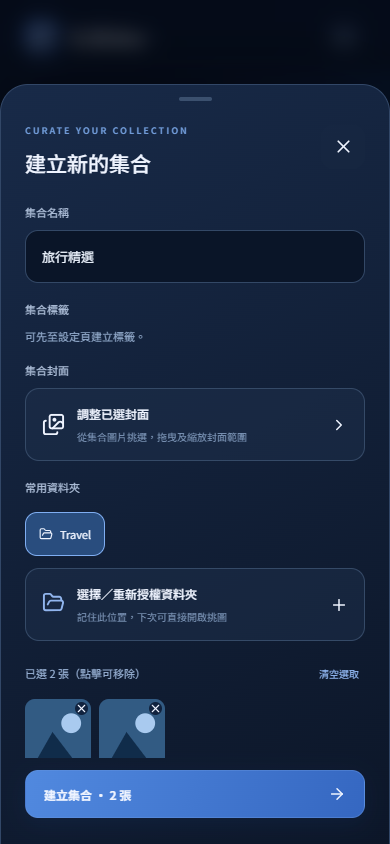
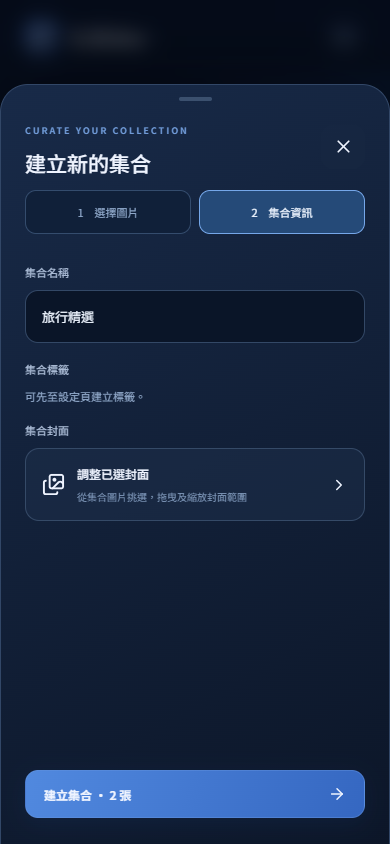
Release v1.0.14 with two-page collection editor

diff --git a/src/App.vue b/src/App.vue
@@ -85,9 +85,43 @@ const busy = ref(false)
 const error = ref('')
 const modal = ref(false)
 const editorScroll = ref<HTMLElement>()
+const detailsScroll = ref<HTMLElement>()
+const editorStep = ref<0|1>(0)
 const editorScrolled = ref(false)
-function editorTop() { editorScroll.value?.scrollTo({top:0,behavior:'smooth'}) }
-function updateEditorScroll() { editorScrolled.value=(editorScroll.value?.scrollTop || 0)>1 }
+function currentEditorScroll() { return editorStep.value===0 ? editorScroll.value : detailsScroll.value }
+function editorTop() { currentEditorScroll()?.scrollTo({top:0,behavior:'smooth'}) }
+function updateEditorScroll() { editorScrolled.value=(currentEditorScroll()?.scrollTop || 0)>1 }
+function showEditorStep(step:0|1) {
+  if(editorStep.value===step) return
+  selectedStrip.value?.cancel()
+  editorStep.value=step
+  nextTick(updateEditorScroll)
+}
+let editorTouch:{id:number;x:number;y:number}|undefined
+function startEditorSwipe(e:TouchEvent) {
+  editorTouch=undefined
+  if(e.touches.length!==1 || (e.target as Element).closest('input, textarea, select, button:not(.pick-photo), .selected-strip, .folder-chips')) return
+  const touch=e.touches[0]!
+  editorTouch={id:touch.identifier,x:touch.clientX,y:touch.clientY}
+}
+function moveEditorSwipe(e:TouchEvent) {
+  if(!editorTouch) return
+  if(e.touches.length!==1) { editorTouch=undefined; return }
+  const touch=[...e.touches].find(t=>t.identifier===editorTouch?.id)
+  if(touch) {
+    const dx=touch.clientX-editorTouch.x,dy=touch.clientY-editorTouch.y
+    if(Math.abs(dx)>10 && Math.abs(dx)>Math.abs(dy)*1.4) e.preventDefault()
+  }
+}
+function endEditorSwipe(e:TouchEvent) {
+  if(!editorTouch) return
+  const touch=[...e.changedTouches].find(t=>t.identifier===editorTouch?.id)
+  if(touch) {
+    const dx=touch.clientX-editorTouch.x,dy=touch.clientY-editorTouch.y
+    if(Math.abs(dx)>65 && Math.abs(dx)>Math.abs(dy)*1.4) showEditorStep(dx<0 ? 1 : 0)
+  }
+  editorTouch=undefined
+}
 const editId = ref<string | null>(null)
 const name = ref('')
 const selectedFolder = ref<SourceFolder | null>(null)
@@ -162,7 +196,7 @@ function edit(c?:Collection, folder?:SourceFolder) {
   menuCollectionId.value=null
   editId.value=c?.id || null; name.value=c?.name || ''; draftPhotos.value=c ? [...c.photos] : []
   draftTags.value=(c?.tagIds || []).filter(id=>tags.value.some(t=>t.id===id))
-  draftCover.value=c?.cover ? {...c.cover} : undefined; coverEditor.value=false; editorScrolled.value=false
+  draftCover.value=c?.cover ? {...c.cover} : undefined; coverEditor.value=false; editorScrolled.value=false; editorStep.value=0; editorTouch=undefined
   selectedFolder.value=null; folderPhotos.value=[];folderQuery.value='';photoSortOpen.value=false; modal.value=true; error.value=''
   const initial=folder || folders.value[0]
   if(initial) void browseFolder(initial)
@@ -260,13 +294,9 @@ onUnmounted(() => { window.removeEventListener('keydown',keyboard); window.remov
   <div v-if="modal" class="modal-backdrop" @click.self="modal=false">
     <section class="sheet collection-sheet" :inert="photoSortOpen" role="dialog" aria-modal="true" aria-labelledby="sheet-title">
       <div class="sheet-handle"></div><div class="sheet-heading"><div><span class="eyebrow">CURATE YOUR COLLECTION</span><h2 id="sheet-title">{{ editId ? '編輯集合' : '建立新的集合' }}</h2></div><button class="icon-button" @click="modal=false" aria-label="關閉"><X :size="21" /></button></div>
-      <div class="editor-scroll-wrap"><div ref="editorScroll" class="editor-scroll" @scroll.passive="updateEditorScroll">
-        <label class="field-label" for="collection-name">集合名稱</label><input id="collection-name" v-model="name" maxlength="60" placeholder="例如：旅行片刻、日常光影" />
-        <p v-if="!editId && !name.trim() && draftPhotos.length" class="auto-name-hint">{{ suggestedName ? '將自動命名為：' + suggestedName : preferences.autoName ? '檔名無法套用規則，請輸入集合名稱。' : '自動命名已停用，請輸入集合名稱。' }}</p>
-        <label class="field-label">集合標籤</label>
-        <div v-if="tags.length" class="tag-picker"><button v-for="tag in tags" :key="tag.id" class="tag-pill" :class="{chosen:draftTags.includes(tag.id)}" :style="tagStyle(tag)" :aria-label="'套用標籤 '+tag.name" :aria-pressed="draftTags.includes(tag.id)" @click="toggleTag(tag.id)"><span><Check v-if="draftTags.includes(tag.id)" :size="13" />{{ tag.name }}</span></button></div>
-        <p v-else class="tag-hint">可先至設定頁建立標籤。</p>
-        <label class="field-label">集合封面</label><button class="folder-select" :disabled="!draftPhotos.length" @click="coverEditor=true"><Images :size="23" /><span><strong>{{ draftCover && selected(draftCover.uri) ? '調整已選封面' : '選擇封面與調整視窗' }}</strong><small>從集合圖片挑選，拖曳及縮放封面範圍</small></span><ChevronRight :size="18" /></button>
+      <div class="editor-steps" aria-label="集合編輯步驟"><button :class="{current:editorStep===0}" :aria-current="editorStep===0 ? 'step' : undefined" aria-label="選擇圖片步驟" @click="showEditorStep(0)">1　選擇圖片</button><button :class="{current:editorStep===1}" :aria-current="editorStep===1 ? 'step' : undefined" aria-label="集合資訊步驟" @click="showEditorStep(1)">2　集合資訊</button></div>
+      <div class="editor-scroll-wrap"><div class="editor-pages" :class="{details:editorStep===1}" @touchstart.passive="startEditorSwipe" @touchmove="moveEditorSwipe" @touchend.passive="endEditorSwipe" @touchcancel="editorTouch=undefined">
+      <div ref="editorScroll" class="editor-scroll editor-page" :inert="editorStep!==0" @scroll.passive="updateEditorScroll">
         <label class="field-label">常用資料夾</label>
         <div class="folder-chips"><button v-for="f in folders" :key="f.uri" :class="{chosen:selectedFolder?.uri===f.uri}" @click="browseFolder(f)"><FolderOpen :size="14" />{{ f.name }}</button></div>
         <p v-if="!folders.length" class="tag-hint">尚未授權圖片資料夾，請先至設定頁新增。</p>
@@ -277,10 +307,17 @@ onUnmounted(() => { window.removeEventListener('keydown',keyboard); window.remov
         <p v-if="!folderBusy && folderPhotos.length && !visibleFolderPhotos.length" class="picker-empty">找不到符合「{{ folderQuery }}」的圖片。</p>
         <div class="photo-picker"><button v-for="p in visibleFolderPhotos" :key="p.uri" class="pick-photo" :class="{selected:selected(p.uri)}" @click="toggle(p)" :aria-label="matchesFolder(p,folderQuery) ? `選取 ${p.name}，目錄 ${p.folderPath}` : `選取 ${p.name}`" :aria-pressed="selected(p.uri)"><PhotoThumb :uri="p.uri" :name="p.name" /><span class="pick-check"><Check v-if="selected(p.uri)" :size="15" /></span><span v-if="matchesFolder(p,folderQuery)" class="pick-folder-name" :title="p.folderPath">{{ p.folderPath }}</span><span class="pick-name">{{ p.name }}</span></button></div>
         <p class="sheet-note">可切換資料夾繼續挑選；集合只保留你勾選的圖片。<br />資料夾新增圖片不會自動加入集合，原始檔案不會修改。</p>
-
       </div>
+      <div ref="detailsScroll" class="editor-scroll editor-page" :inert="editorStep!==1" @scroll.passive="updateEditorScroll">
+        <label class="field-label" for="collection-name">集合名稱</label><input id="collection-name" v-model="name" maxlength="60" placeholder="例如：旅行片刻、日常光影" />
+        <p v-if="!editId && !name.trim() && draftPhotos.length" class="auto-name-hint">{{ suggestedName ? '將自動命名為：' + suggestedName : preferences.autoName ? '檔名無法套用規則，請輸入集合名稱。' : '自動命名已停用，請輸入集合名稱。' }}</p>
+        <label class="field-label">集合標籤</label>
+        <div v-if="tags.length" class="tag-picker"><button v-for="tag in tags" :key="tag.id" class="tag-pill" :class="{chosen:draftTags.includes(tag.id)}" :style="tagStyle(tag)" :aria-label="'套用標籤 '+tag.name" :aria-pressed="draftTags.includes(tag.id)" @click="toggleTag(tag.id)"><span><Check v-if="draftTags.includes(tag.id)" :size="13" />{{ tag.name }}</span></button></div>
+        <p v-else class="tag-hint">可先至設定頁建立標籤。</p>
+        <label class="field-label">集合封面</label><button class="folder-select" :disabled="!draftPhotos.length" @click="coverEditor=true"><Images :size="23" /><span><strong>{{ draftCover && selected(draftCover.uri) ? '調整已選封面' : '選擇封面與調整視窗' }}</strong><small>從集合圖片挑選，拖曳及縮放封面範圍</small></span><ChevronRight :size="18" /></button>
+      </div></div>
       <button v-if="editorScrolled" class="editor-top-button" @click="editorTop" :aria-label="editId ? '回到編輯集合頂部' : '回到新增集合頂部'"><ArrowUp :size="22" /></button></div>
-      <button class="primary save-button" :disabled="!collectionName || !draftPhotos.length || busy" @click="save">{{ editId ? '儲存變更' : '建立集合' }} · {{ draftPhotos.length }} 張<ArrowRight :size="18" /></button>
+      <button class="primary save-button" :disabled="editorStep===1 && (!collectionName || !draftPhotos.length || busy)" @click="editorStep===0 ? showEditorStep(1) : save()">{{ editorStep===0 ? '下一步' : (editId ? '儲存變更' : '建立集合') + ' · ' + draftPhotos.length + ' 張' }}<ArrowRight :size="18" /></button>
     </section>
   </div>
   <CollectionFilter v-if="photoSortOpen" photos :tags="[]" :selected="[]" :sort-key="preferences.photoSortKey" :sort-direction="preferences.photoSortDirection" @close="photoSortOpen=false" @apply="applyPhotoSort" />

diff --git a/src/style.css b/src/style.css
@@ -7,6 +7,7 @@
 .library{padding-top:calc(94px + env(safe-area-inset-top))}.topbar{position:fixed;top:0;left:0;right:0;z-index:15;background:#0c172bec;backdrop-filter:blur(20px);border-bottom:1px solid #243852;padding:calc(14px + env(safe-area-inset-top)) max(24px,calc((100vw - 920px)/2)) 14px;height:calc(74px + env(safe-area-inset-top))}.settings-button{color:#aac8f2;background:#1b305050}.library>.stats{margin-top:10px}.bottom-bar{padding:8px max(20px,calc((100vw - 920px)/2)) calc(8px + env(safe-area-inset-bottom));z-index:15;gap:16px}.bottom-bar button{flex:1;display:flex;align-items:center;justify-content:center;gap:9px;min-height:48px;border-radius:14px;color:#7290b8;font-size:12px}.bottom-bar button.selected{color:#b0cfff;background:#203a5d85}.card-copy p+p{margin-top:6px}.settings-heading{display:flex;align-items:center;gap:12px;margin:12px 0 25px}.settings-heading h1{font-size:23px;margin:0}.setting-card{padding:24px;border:1px solid #2a405f;border-radius:20px;background:linear-gradient(145deg,#172b4a90,#101e32);margin-bottom:18px}.setting-title{display:flex;align-items:center;gap:10px;color:#a7c4f0}.setting-title h2{font-size:16px;font-weight:600;color:#e5efff;margin:0}.setting-card p{font-size:11px;color:#849fc3;line-height:1.9;margin:16px 0 25px}.duration-label,.duration-scale{display:flex;justify-content:space-between;align-items:center;font-size:12px;color:#93afd6}.duration-label output{background:#274971;padding:8px 12px;border-radius:10px;color:#d0e3ff;min-width:85px;text-align:center}.duration-scale{font-size:10px;color:#647f9f;margin:3px 0 20px}.reset-setting{padding:11px 14px;border:1px solid #355378;border-radius:11px;color:#a4c0e8;font-size:11px;min-height:44px}.setting-card .setting-note{font-size:10px;margin:20px 0 0}.version-card{display:flex;justify-content:space-between;align-items:center;font-size:12px;color:#8ca8cd}.version-card strong{color:#d0e1fb;font-size:14px;font-weight:500}.dissolve-enter-active,.dissolve-leave-active{transition-duration:var(--transition-time,360ms)}@media(min-width:650px){.library{padding-top:calc(94px + env(safe-area-inset-top))}}@media(prefers-reduced-motion:reduce){.dissolve-enter-active,.dissolve-leave-active{transition:none!important}}
 
 .editor-scroll-wrap{position:relative;flex:1;min-height:0}.editor-scroll-wrap .editor-scroll{height:100%;padding-bottom:74px}.editor-top-button{position:absolute;right:5px;bottom:14px;width:48px;height:48px;border-radius:50%;display:grid;place-items:center;background:#254d8088;border:1px solid #96bcf080;backdrop-filter:blur(10px);color:#d4e5ff;box-shadow:0 4px 18px #0004;z-index:2}
+.editor-steps{display:flex;gap:8px;margin:4px 0 12px}.editor-steps button{flex:1;min-height:44px;border:1px solid #344c6d;border-radius:11px;background:#102039;color:#8fa8ca;font-size:11px}.editor-steps button.current{border-color:#75a7e9;background:#254a78;color:#eef5ff}.editor-scroll-wrap{overflow:hidden}.editor-pages{display:flex;width:100%;height:100%;transition:transform .3s ease;will-change:transform}.editor-pages.details{transform:translateX(-100%)}.editor-page{flex:0 0 100%;width:100%;min-width:0;overflow-y:auto;overscroll-behavior:contain}@media(prefers-reduced-motion:reduce){.editor-pages{transition:none}}
 
 .setting-toggle-row{display:flex;align-items:center;gap:18px}.setting-toggle-row>div{flex:1}.setting-toggle-row h2{font-size:15px;margin:0;color:#dfebff;font-weight:600}.setting-toggle-row p{margin:10px 0 0}.setting-toggle-row button{flex-shrink:0;width:52px;min-height:44px;position:relative;display:grid;align-items:center;padding:0 4px}.setting-toggle-row button:before{content:"";position:absolute;inset:7px 0;border-radius:20px;background:#30435f;border:1px solid #526784}.setting-toggle-row button.enabled:before{background:#477fc8;border-color:#80b5fb}.setting-toggle-row button>span{position:relative;width:22px;height:22px;border-radius:50%;background:#d9e5f5;transition:transform .2s;box-shadow:0 2px 6px #0003}.setting-toggle-row button.enabled>span{transform:translateX(22px)}.auto-name-setting .setting-note{word-break:break-word}.auto-name-hint{margin:10px 0 0;font-size:11px;color:#8fb5eb;line-height:1.7;overflow-wrap:anywhere}
 

diff --git a/README.md b/README.md
@@ -4,16 +4,16 @@
 
 ## 安裝
 
-前往 [GitHub Releases](https://github.com/Tidy1245/ILSlides/releases/latest) 下載 **ILSlides1-0-13.apk**，支援 **Android 9（API 28）以上**。與 Video-Box 相同，提供 Capacitor debug 簽章 APK 直接安裝。
+前往 [GitHub Releases](https://github.com/Tidy1245/ILSlides/releases/latest) 下載 **ILSlides1-0-14.apk**，支援 **Android 9（API 28）以上**。與 Video-Box 相同，提供 Capacitor debug 簽章 APK 直接安裝。
 
 ## 使用方式
 
 1. 先至設定頁「圖片資料夾」點「選擇／重新授權資料夾」，選擇圖片來源。App 會記住資料夾，下次直接點常用資料夾即可開啟。選取的資料夾會一併讀取所有子目錄中的圖片。設定頁每個資料夾右側可刪除捷徑，確認後從常用清單移除；既有集合、圖片及其讀取授權保留，也可重新加入。
-2. 點底部右側「集合」，再點「新增集合」，可手動輸入名稱或留空使用自動命名。
+2. 點底部右側「集合」，再點「新增集合」。第一頁挑選圖片，第二頁可手動輸入名稱或留空使用自動命名，兩頁可點步驟或左右滑動切換。
 3. 在縮圖上勾選多張圖片；可跨資料夾繼續勾選。搜尋框可依檔名或子目錄名稱找圖，輸入目錄名稱會列出目錄內圖片並標示相對目錄路徑；右側漏斗提供檔名／修改日期的遞增與遞減排序，不提供日期的圖片排最後。全選僅加入目前搜尋結果，排序獨立保存。
-4. 已選圖片長按約 450ms 後拖曳調整順序，拖到兩側可自動捲動；短按移除，一般滑動捲動清單。按返回／Escape 或系統取消會撤銷當次拖曳。點「建立集合」儲存，集合依已選圖片順序瀏覽。
+4. 已選圖片長按約 450ms 後拖曳調整順序，拖到兩側可自動捲動；短按移除，一般滑動捲動清單。按返回／Escape 或系統取消會撤銷當次拖曳。點「下一步」到集合資訊頁設定名稱、標籤和封面，再點「建立集合」儲存；集合依已選圖片順序瀏覽。
 5. 打開集合即以完整畫面顯示圖片；單指左右滑動切圖，兩指張開／捏合縮放（1～4 倍）、兩指同向移動平移查看區域。快速雙擊指定位置放大，再次雙擊恢復完整圖片；單擊約 280ms 後隱藏／顯示上方半透明標題列。下方說明及工具區已移除。返回首頁／集合頁時恢復原本捲動位置，搜尋及標籤條件保留。
-6. 集合卡片右下角的三小點可選擇「編輯集合」或「刪除集合」；刪除需確認且只刪集合設定，原始圖片保留。編輯集合同樣可搜尋、排序來源圖片及長按拖曳已選圖片，也可改名、增加圖片、取消勾選。
+6. 集合卡片右下角的三小點可選擇「編輯集合」或「刪除集合」；刪除需確認且只刪集合設定，原始圖片保留。編輯集合同樣分為挑圖及集合資訊兩頁，可搜尋、排序來源圖片、拖曳已選圖片，並改名或調整標籤、封面。
 7. 點「選擇封面與調整視窗」，從集合選一張圖片，在 4:3 視窗拖曳位置及縮放 1～3 倍；點「使用此封面」再儲存集合。取消調整不變更封面。封面圖片移出集合後回退至集合第一張。
 8. 點首頁「最近的集合」標題可切換「為你推薦」，從所有集合隨機挑選最多 4 筆；再點可切回最近修改的最多 4 筆。App 會記住上次模式。完整搜尋、新增、編輯、刪除與封面功能放在「集合」頁。
 9. 搜尋框右側漏斗按鈕開啟「篩選與排序」：依字母、建立日期、修改日期遞增／遞減排序並保存，或複選標籤（符合任一所選標籤），與名稱搜尋共同套用。按套用才生效，關閉／返回取消草稿；可重設條件。
@@ -67,7 +67,12 @@ npm run release:prepare -- 2.0.0 # 明確指定
 
 此工具同步 package.json、package-lock.json、Android versionName，並遞增 Android versionCode。一般建置不改版號。更新 AGENTS.md 與發布說明後，建置 APK、提交推送 main，再建立 GitHub Release 上傳 `ILSlides<版號>.apk` 與 `SHA256SUMS.txt`。
 
-UI 測試：安裝 Playwright 後執行 `npm run dev` 與 `node scripts/ui-smoke.mjs`、`node scripts/cache-tags-smoke.mjs`、`node scripts/zoom-smoke.mjs`、`node scripts/picker-reorder-smoke.mjs`、`node scripts/folder-settings-smoke.mjs`、`node scripts/folder-name-search-smoke.mjs`、`node scripts/home-menu-smoke.mjs`；可用 `PLAYWRIGHT_MODULE` 指定模組路徑，`APP_URL` 指定測試網址。原生 bridge 使用模擬資料。
+UI 測試：安裝 Playwright 後執行 `npm run dev` 與 `node scripts/ui-smoke.mjs`、`node scripts/cache-tags-smoke.mjs`、`node scripts/zoom-smoke.mjs`、`node scripts/picker-reorder-smoke.mjs`、`node scripts/folder-settings-smoke.mjs`、`node scripts/folder-name-search-smoke.mjs`、`node scripts/home-menu-smoke.mjs`、`node scripts/editor-pages-smoke.mjs`；可用 `PLAYWRIGHT_MODULE` 指定模組路徑，`APP_URL` 指定測試網址。原生 bridge 使用模擬資料。
+
+## v1.0.14 驗證
+
+- 新增／編輯集合分成挑圖與集合資訊兩頁，可點步驟或左右滑動切換；切頁時有水平轉場，第一頁底部為「下一步」。
+- 驗證結果與實機限制見 [v1.0.14 發布說明](docs/release-v1.0.14.md)。
 
 ## v1.0.13 驗證
 
@@ -119,9 +124,9 @@ UI 測試：安裝 Playwright 後執行 `npm run dev` 與 `node scripts/ui-smoke
 
 使用測試圖片，非 App 預載照片。
 
-| 選圖建立集合 | 集合首頁 |
+| 選擇圖片（第一頁） | 集合資訊（第二頁） |
 | --- | --- |
-| ![選圖](docs/create.png) | ![首頁](docs/collections.png) |
+| ![選擇圖片](docs/photo-search.png) | ![集合資訊](docs/create.png) |
 
 封面裁切操作：
 

diff --git a/docs/release-v1.0.14.md b/docs/release-v1.0.14.md
@@ -1,0 +1,11 @@
+ILSlides v1.0.14
+
+新增與編輯集合改為兩頁：第一頁挑選圖片，可搜尋、排序、跨資料夾選取與拖曳已選圖片；第二頁設定集合名稱、標籤與封面。第一頁底部按鈕改為「下一步」，第二頁才建立或儲存集合。
+
+兩頁可點步驟或左右滑動切換，並以水平動畫轉場。切頁保留選取內容與各頁捲動位置；滑動不干擾已選圖片的長按拖曳及資料夾橫捲。
+
+Android 9（API 28）以上，versionName 1.0.14、versionCode 15。App 僅讀取授權目錄，不修改來源圖片。
+
+驗證：69 項 TypeScript、12 項 Android 單元測試、正式建置、APK 建置與 lint；手機尺寸瀏覽器驗證雙頁轉場、切頁保存、挑圖搜尋／排序、封面及既有集合操作。瀏覽器原生 bridge 使用模擬資料，未接 Android 實機。
+
+附 ILSlides1-0-14.apk 與 SHA256SUMS.txt。

diff --git a/AGENTS.md b/AGENTS.md
@@ -11,6 +11,12 @@
 
 ## 目前開發進度
 
+### v1.0.14（2026-10-29）
+
+- 新增／編輯集合改為左右兩頁：第一頁挑圖、搜尋與排序，第二頁設定名稱、標籤及封面。第一頁底部為「下一步」，第二頁才顯示建立／儲存。
+- 可點步驟或左右滑動切換，頁面有水平轉場；橫向切頁避開已選圖片拖曳、資料夾橫捲及輸入控制。各頁保留自己的捲動位置，回頂部按鈕對應目前頁面。
+- 手機尺寸瀏覽器驗證切頁／轉場／保存、封面與既有挑圖回歸；發布驗證與實機限制見本版發布說明。
+
 ### v1.0.13（2026-10-29）
 
 - 首頁標題可切換「最近的集合」與「為你推薦」；推薦從所有集合隨機抽選最多 4 筆，模式保存並於下次開啟 App 恢復。
